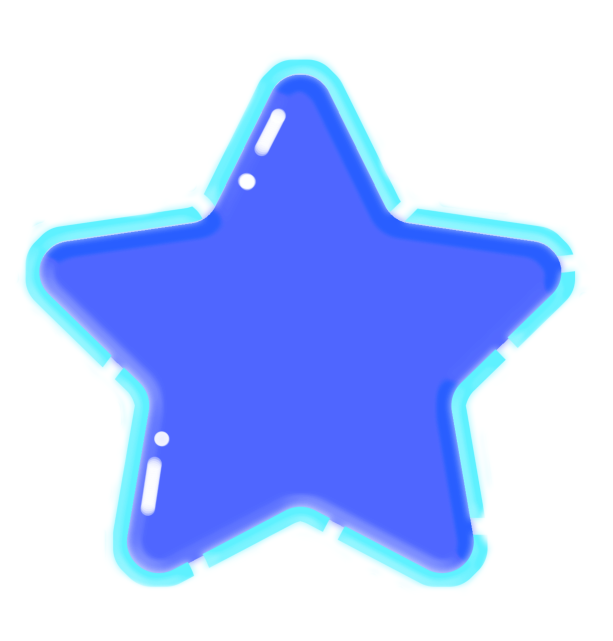
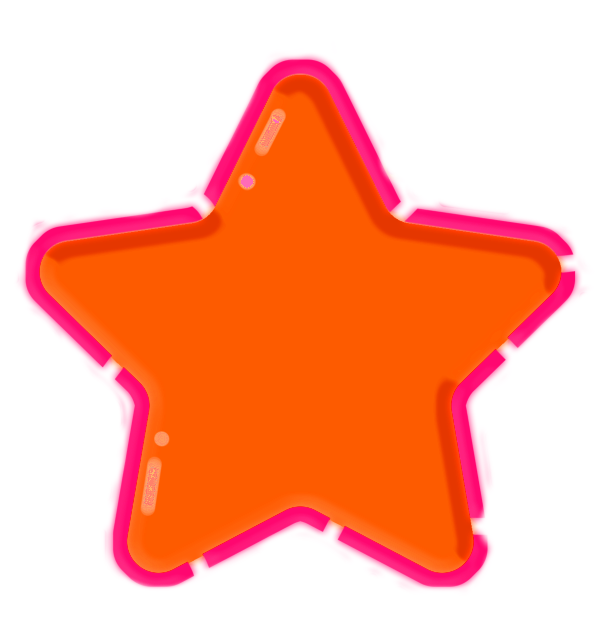
make stars random color, size and position

diff --git a/dark-matter-disco/src/app/star.service.ts b/dark-matter-disco/src/app/star.service.ts
@@ -25,13 +25,17 @@ export class StarService {
   
   giveStar(username){
     this.draw = this.drawService.getDraw();
-
-    const star = this.draw.image('../assets/star2.png').cx(-300).cy(-300).opacity(0).size(50, 50);
+    const rando = Math.floor(Math.random() * 6);
+    const randoSize = Math.floor(Math.random() * 100 + 40)
+    const randoShiftX = Math.floor((Math.random() - 0.5) * 140);
+    const randoShiftY = Math.floor((Math.random() - 0.5) * 140);
+    const star = this.draw.image(`../assets/star${rando}.png`)
+    star.cx(-300).cy(-300).opacity(0).size(randoSize, randoSize);
    
     if (username === this.username) {
       const subscription = this.userStream.subscribe((poses) => {
-        let noseX = poses[0].keypoints[0].position.x
-        let noseY = poses[0].keypoints[0].position.y
+        let noseX = poses[0].keypoints[0].position.x + randoShiftX;
+        let noseY = poses[0].keypoints[0].position.y + randoShiftY;
 
         star.cx(noseX).cy(noseY); 
         star.animate(300).opacity(1).after(() => {
@@ -41,8 +45,8 @@ export class StarService {
       }, () => {});
     } else {
       const subscription = this.danceBuddies[username].poseStream.subscribe((poses) => {
-        let noseX = poses[0].keypoints[0].position.x
-        let noseY = poses[0].keypoints[0].position.y
+        let noseX = poses[0].keypoints[0].position.x + randoShiftX;
+        let noseY = poses[0].keypoints[0].position.y + randoShiftY;
 
         star.cx(noseX).cy(noseY); 
         star.animate(300).opacity(1).after(() => {

diff --git a/dark-matter-disco/src/assets/random-usernames.js b/dark-matter-disco/src/assets/random-usernames.js
@@ -1,5 +1,5 @@
 export default [
-  'Perposterous Panda',
+  'Preposterous Panda',
   'Reluctant Rhino',
   'Churlish Chicken',
   'Patient Penguin',
@@ -17,7 +17,7 @@ export default [
   'Laughable Lark',
   'Nefarious Nightingale',
   'Outrageous Owl',
-  'Wondering Whale',
+  'Wandering Whale',
   'Zealous Zebra',
   'Aprehensive Anaconda',
 ];
